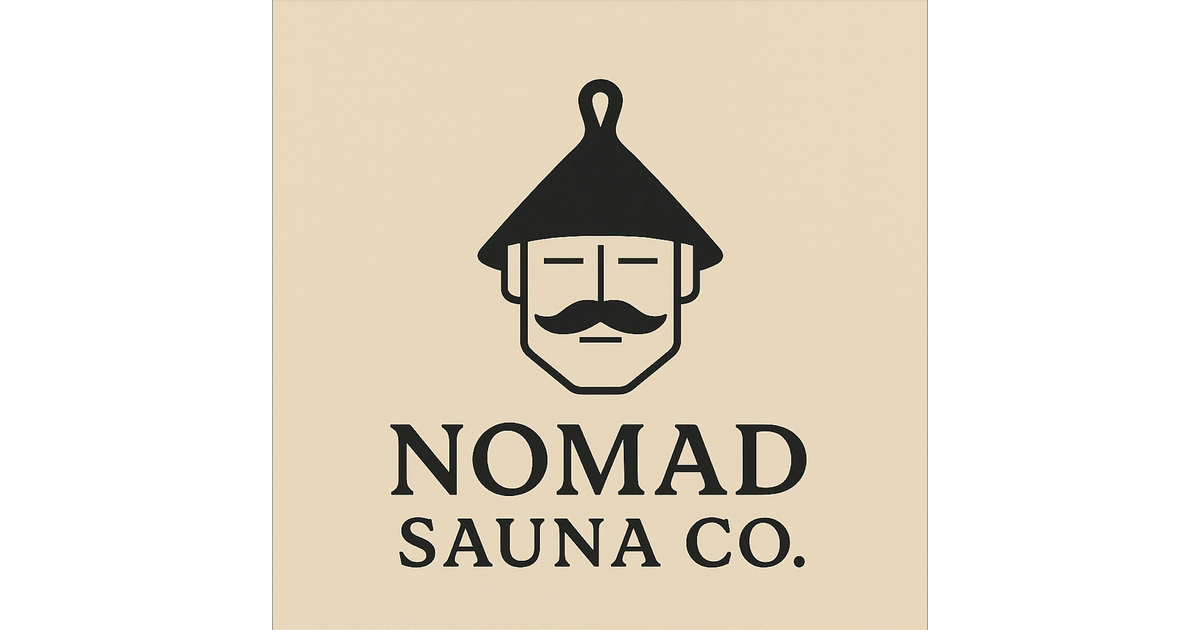
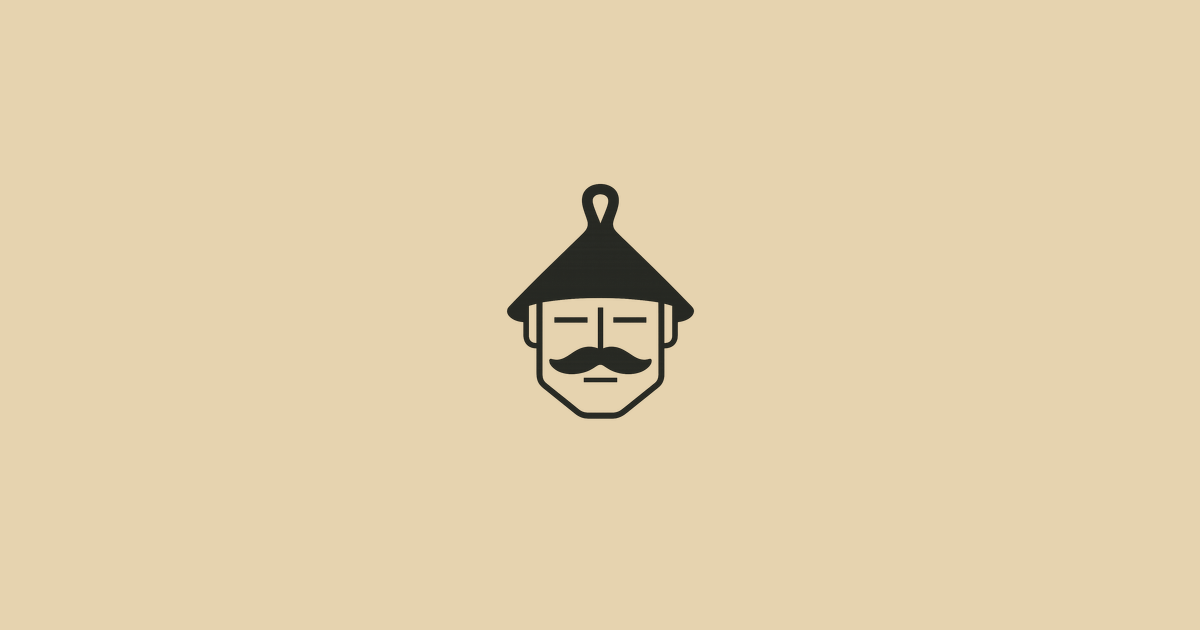
Update Open Graph image to include NOMAD SAUNA CO. text

diff --git a/app/layout.tsx b/app/layout.tsx
@@ -19,7 +19,7 @@ export const metadata: Metadata = {
     siteName: "Nomad Sauna Co.",
     images: [
       {
-        url: "https://nomadsaunaco.com/images/og/og-image.png?v=1745020813618",
+        url: "https://nomadsaunaco.com/images/og/og-image.png?v=1745021811522",
         width: 1200,
         height: 630,
         alt: "Nomad Sauna Co. Logo"
@@ -30,7 +30,7 @@ export const metadata: Metadata = {
     card: "summary_large_image",
     title: "Nomad Sauna Co. | Handcrafted Saunas for Modern Living",
     description: "Premium custom-built saunas crafted with sustainable materials and traditional Finnish techniques for an authentic experience anywhere.",
-    images: ["https://nomadsaunaco.com/images/og/og-image.png?v=1745020813618"],
+    images: ["https://nomadsaunaco.com/images/og/og-image.png?v=1745021811522"],
   }
 };
 
@@ -44,11 +44,11 @@ export default function RootLayout({
       <head>
         <link rel="icon" href="/logo-no-bg.png" type="image/png" />
         {/* Additional explicit meta tags for social media platforms */}
-        <meta property="og:image" content="https://nomadsaunaco.com/images/og/og-image.png?v=1745020813618" />
+        <meta property="og:image" content="https://nomadsaunaco.com/images/og/og-image.png?v=1745021811522" />
         <meta property="og:image:width" content="1200" />
         <meta property="og:image:height" content="630" />
         <meta property="og:image:alt" content="Nomad Sauna Co. Logo" />
-        <meta name="twitter:image" content="https://nomadsaunaco.com/images/og/og-image.png?v=1745020813618" />
+        <meta name="twitter:image" content="https://nomadsaunaco.com/images/og/og-image.png?v=1745021811522" />
       </head>
       <body
         className={cn(

diff --git a/resize-og-image.js b/resize-og-image.js
@@ -7,7 +7,7 @@ console.log('Creating optimized Open Graph image...');
 
 // Define paths
 const ogDir = path.join(__dirname, 'public', 'images', 'og');
-const logoPath = path.join(__dirname, 'public', 'logo-no-bg.png'); // Use the logo without background
+const logoPath = path.join(__dirname, 'public', 'logo-font-no-bg.png'); // Use the logo with text without background
 const outputPath = path.join(ogDir, 'og-image-optimized.png');
 const finalPath = path.join(ogDir, 'og-image.png');
 const backupPath = path.join(ogDir, 'og-image-original.png');
@@ -44,10 +44,10 @@ sharp(logoPath)
   .then(metadata => {
     console.log(`Logo dimensions: ${metadata.width}×${metadata.height}`);
 
-    // Resize the logo to fit nicely in the OG image (max 500px height)
+    // Resize the logo to fit nicely in the OG image
     return sharp(logoPath)
       .resize({
-        height: 400,
+        height: 450,
         fit: 'contain',
         background: { r: 0, g: 0, b: 0, alpha: 0 } // Transparent background
       })
